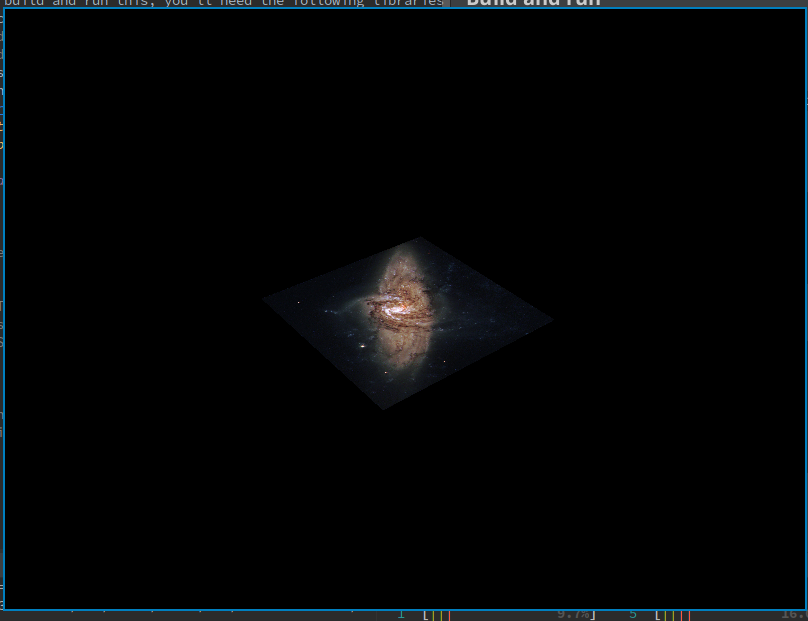
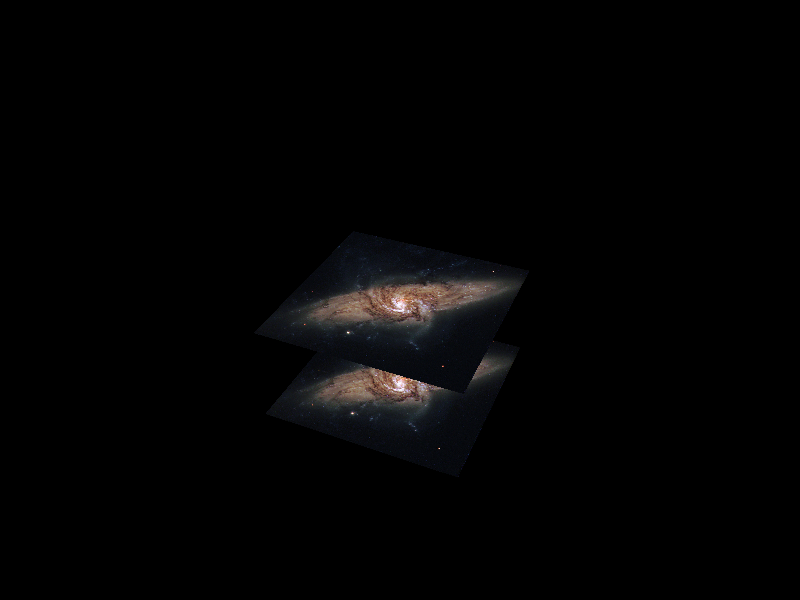
update

Changed region(s): [[0.0, 0.0, 1.0, 1.0], [0.3125, 0.39, 0.6562, 0.72]]

diff --git a/README.md b/README.md
@@ -41,7 +41,7 @@ $ ./compileShaders.sh
 
 ```$ ./VulkanTut```
 
-If everything went well you should see a spinning galaxy:
+If everything went well you should see two spinning galaxies:
 ![galaxy_texure](screenshot.png)
 
 #### Credits
